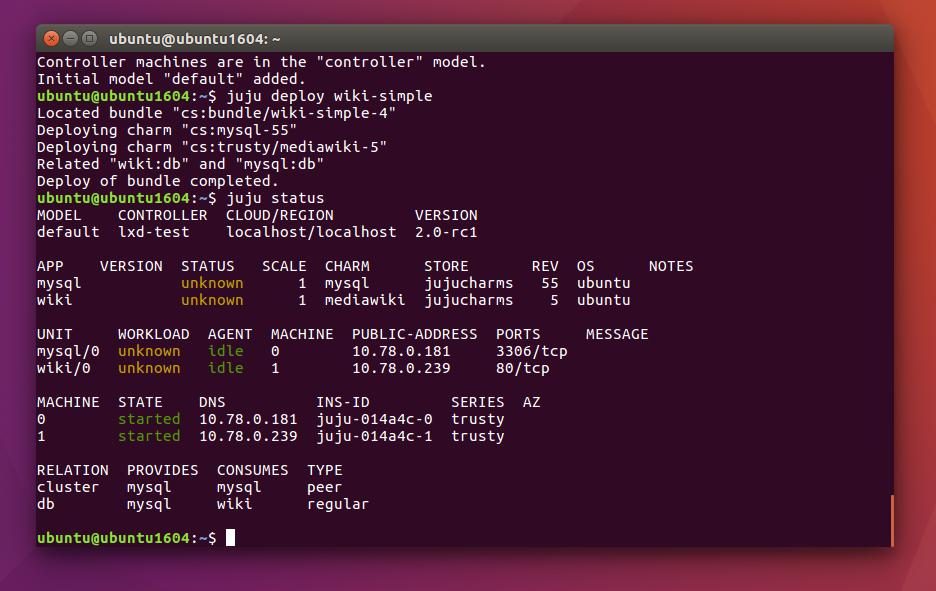
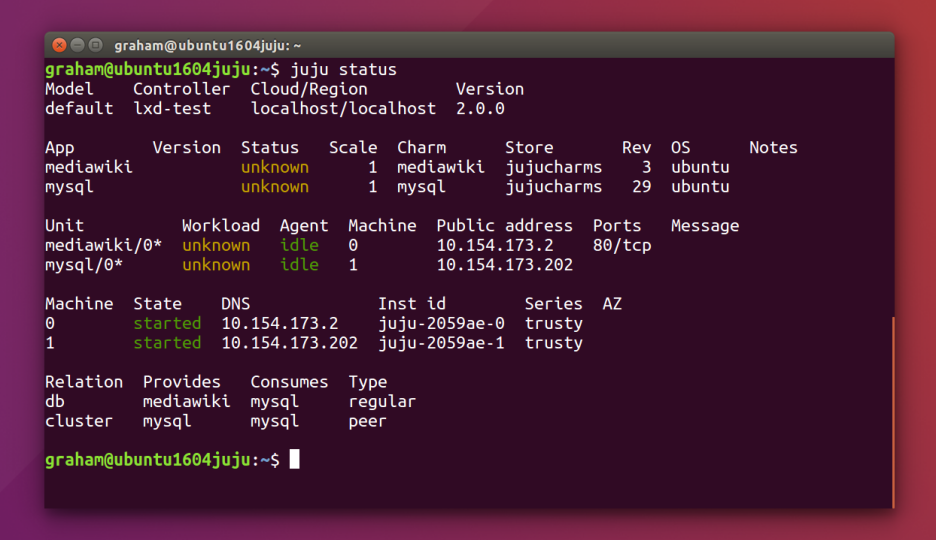
getting-started updated output (#1482)
* updated juju status image

* updated mediawiki site image

* updated status output. small fixes.

* resized images.

diff --git a/src/en/getting-started.md b/src/en/getting-started.md
@@ -153,10 +153,10 @@ This will return a list of the controllers known to Juju, which at the moment is
 the one we just created:
   
 ```no-highlight
-CONTROLLER  MODEL    USER         ACCESS+    CLOUD/REGION         MODELS+ MACHINES+  VERSION+
-lxd-test*   default  admin@local  superuser  localhost/localhost        2 	  1       2.0
+Use --refresh to see the latest information.
 
-+ these are the last known values, run with --refresh to see the latest information.
+Controller  Model    User   Access     Cloud/Region         Models  Machines HA  Version
+lxd-test*   default  admin  superuser  localhost/localhost       2         1 none  2.0.0
 ```
 
 A newly-created controller has two models: The 'controller' model, which should
@@ -174,7 +174,7 @@ In our example, the output should look like this:
 ```no-highlight
 Controller:  lxd-test
 Model:       default
-User:        admin@local
+User:        admin
 ```
 
 ## Deploy
@@ -184,7 +184,7 @@ the [Juju charm store][charm store]. It is a good idea to test your new model.
 How about a MediaWiki site?
 
 ```bash
-juju deploy wiki-simple
+juju deploy cs:bundle/mediawiki-single
 ```
 
 This will fetch a 'bundle' from the Juju store. A bundle is a pre-packaged set
@@ -218,7 +218,7 @@ locked down by default, so for this example there is no need to perform this
 step.
 
 From the status output, we can see that the IP address for the MediaWiki
-site we have created is 10.78.0.239. Open a browser and enter that address 
+site we have created is 10.154.173.2 Open a browser and enter that address 
 to see the site.
 
 !["mediawiki site"](./media/juju-mediawiki-site.png)
